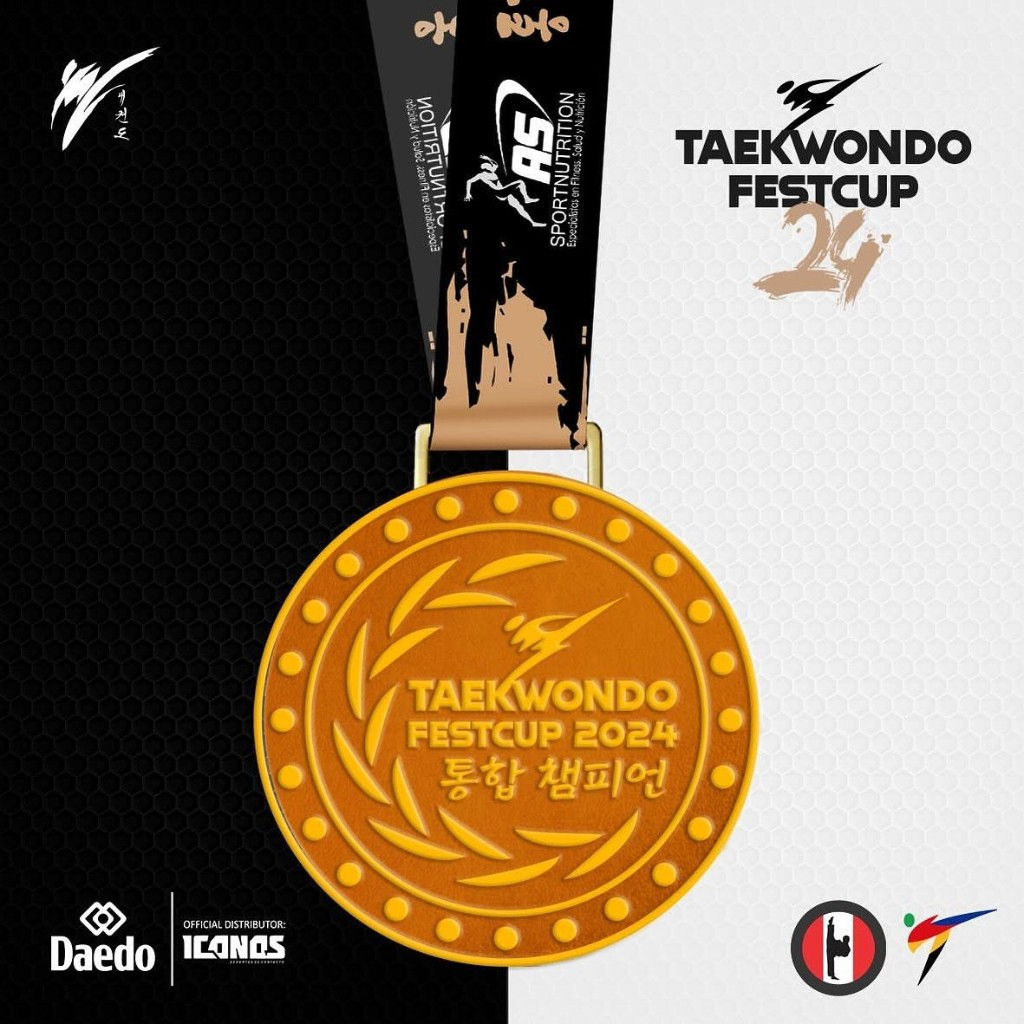
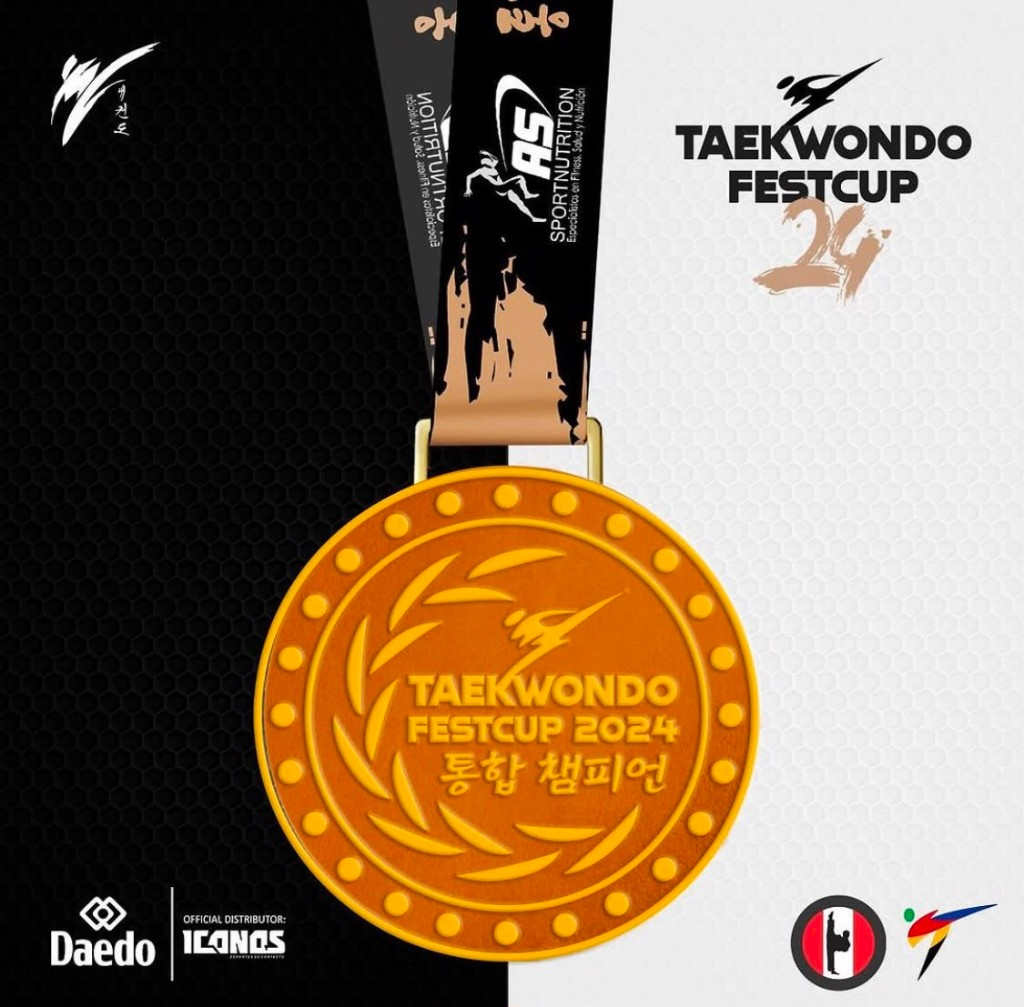
fix(landing): usar medallas y posters oficiales del organizador.
Reemplaza assets generados por los originales 2022–2026 y ajusta el encuadre de medallas.

diff --git a/src/components/landing/landing.css b/src/components/landing/landing.css
@@ -676,7 +676,7 @@
   box-shadow: 0 40px 100px rgba(245,197,24,.2), 0 0 60px rgba(225,6,0,.15);
 }
 .lp-medalla-hero-frame img {
-  width: 100%; display: block; aspect-ratio: 3/4; object-fit: cover;
+  width: 100%; display: block; aspect-ratio: 3/4; object-fit: contain; background: #0d0d0f;
 }
 .lp-medalla-year--hero {
   top: 16px; left: 16px; font-size: 13px; padding: 6px 14px;
@@ -720,7 +720,7 @@
   box-shadow: 0 24px 50px rgba(0,0,0,.5), 0 0 30px rgba(245,197,24,.12);
 }
 .lp-medalla-frame img {
-  width: 100%; display: block; aspect-ratio: 3/4; object-fit: cover;
+  width: 100%; display: block; aspect-ratio: 3/4; object-fit: contain; background: #0d0d0f;
 }
 .lp-medalla-shine {
   position: absolute; inset: 0; pointer-events: none;

diff --git a/src/lib/campeonato/landing-data.js b/src/lib/campeonato/landing-data.js
@@ -49,7 +49,7 @@ export const FESTCUP_LEGADO = [
     alt: 'Poster FestCup 2023',
     title: 'FestCup 2023',
     fecha: 'Sab 25 de Noviembre',
-    lugar: 'Coliseo Gran Chimú · Trujillo',
+    lugar: 'Coliseo Inca · Jr. Estete 410 · Trujillo',
     desc: 'Consolidamos Trujillo como la capital del taekwondo competitivo del norte del Perú.',
     tag: '#UniendoCampeones',
   },
